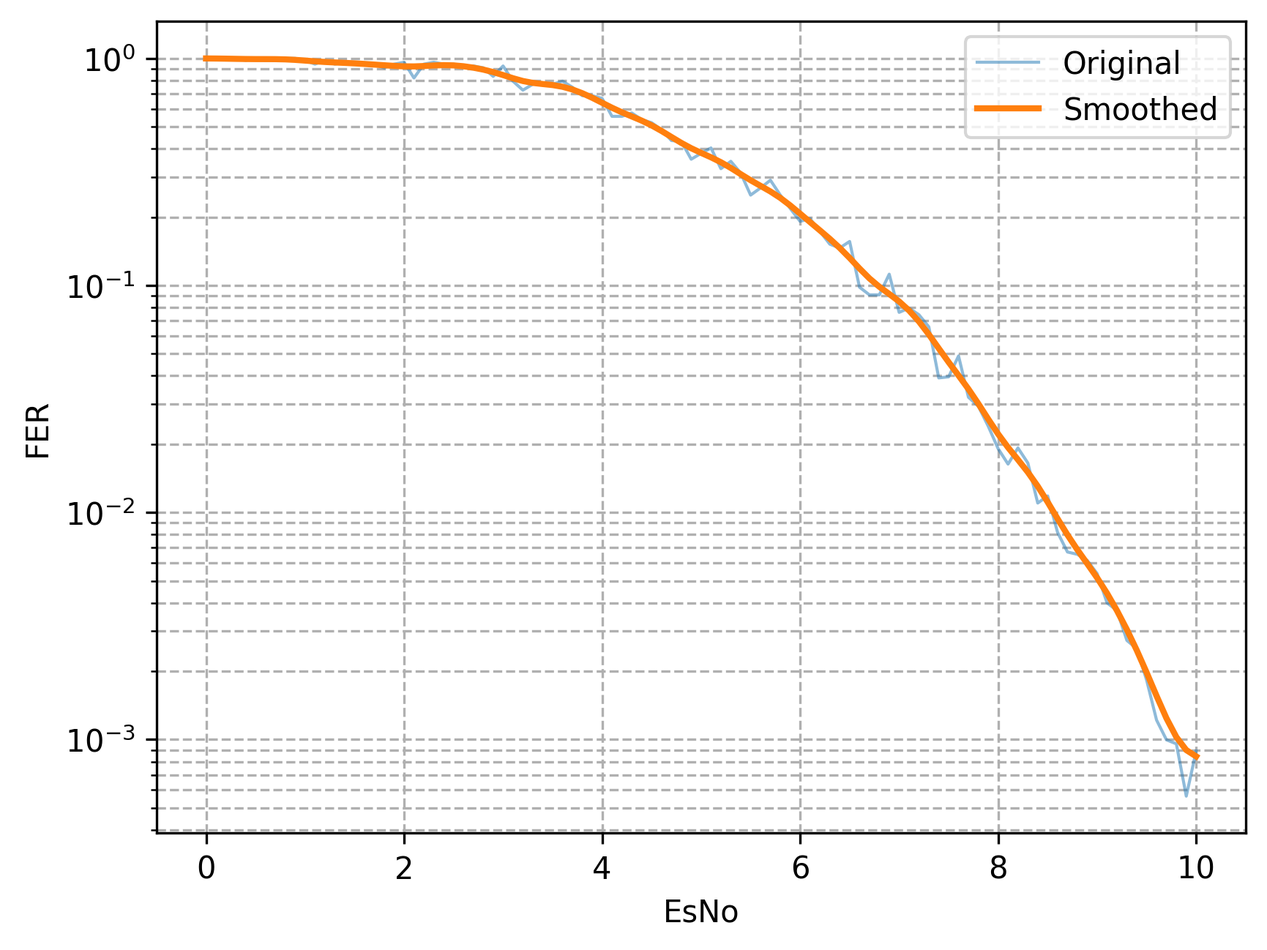
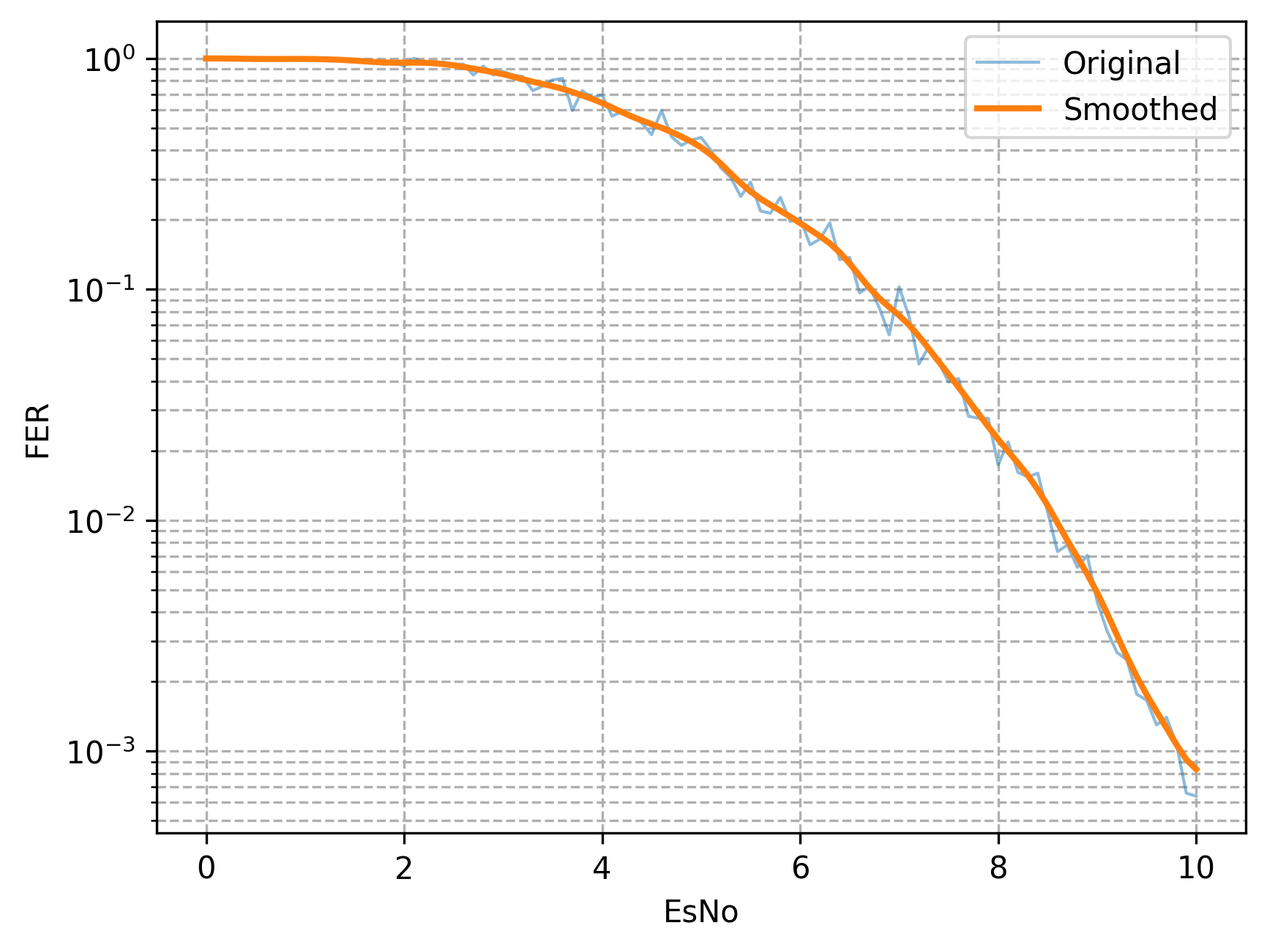
new plots

diff --git a/plot_hardcode.py b/plot_hardcode.py
@@ -5,7 +5,13 @@ from matplotlib import pyplot as plt
 esno_ldpc_32_28 = [0, 0.1, 0.2, 0.3, 0.4, 0.5, 0.6, 0.7, 0.8, 0.9, 1.0, 1.1, 1.2, 1.3, 1.4, 1.5, 1.6, 1.7, 1.8, 1.9, 2.0, 2.1, 2.2, 2.3, 2.4, 2.5, 2.6, 2.7, 2.8, 2.9, 3.0, 3.1, 3.2, 3.3, 3.4, 3.5, 3.6, 3.7, 3.8, 3.9, 4.0, 4.1, 4.2, 4.3, 4.4, 4.5, 4.6, 4.7, 4.8, 4.9, 5.0, 5.1, 5.2, 5.3, 5.4, 5.5, 5.6, 5.7, 5.8, 5.9, 6.0, 6.1, 6.2, 6.3, 6.4, 6.5, 6.6, 6.7, 6.8, 6.9, 7.0, 7.1, 7.2, 7.3, 7.4, 7.5, 7.6, 7.7, 7.8, 7.9, 8.0, 8.1, 8.2, 8.3, 8.4, 8.5, 8.6, 8.7, 8.8, 8.9, 9.0, 9.1, 9.2, 9.3, 9.4, 9.5, 9.6, 9.7, 9.8, 9.9, ] # 10.0
 fer_ldpc_32_28 = [1.0, 1.0, 1.0, 1.0, 0.9803921568627451, 1.0, 0.9803921568627451, 1.0, 1.0, 1.0, 0.9803921568627451, 0.9433962264150944, 0.9803921568627451, 0.9433962264150944, 0.9615384615384616, 0.9615384615384616, 0.9433962264150944, 0.9433962264150944, 0.9090909090909091, 0.9433962264150944, 0.9615384615384616, 0.819672131147541, 0.9433962264150944, 0.9615384615384616, 0.9433962264150944, 0.9433962264150944, 0.9259259259259259, 0.9259259259259259, 0.9090909090909091, 0.8333333333333334, 0.9259259259259259, 0.7936507936507936, 0.7246376811594203, 0.7692307692307693, 0.78125, 0.7692307692307693, 0.7936507936507936, 0.746268656716418, 0.684931506849315, 0.684931506849315, 0.6666666666666666, 0.5555555555555556, 0.5555555555555556, 0.5747126436781609, 0.5376344086021505, 0.5208333333333334, 0.4854368932038835, 0.43478260869565216, 0.43103448275862066, 0.3597122302158273, 0.3816793893129771, 0.4032258064516129, 0.32679738562091504, 0.352112676056338, 0.3125, 0.25, 0.26881720430107525, 0.29069767441860467, 0.25, 0.2183406113537118, 0.19157088122605365, 0.1968503937007874, 0.17301038062283736, 0.1519756838905775, 0.14619883040935672, 0.15625, 0.09823182711198428, 0.09090909090909091, 0.09090909090909091, 0.11210762331838565, 0.076103500761035, 0.0794912559618442, 0.07429420505200594, 0.0657030223390276, 0.03915426781519186, 0.0395882818685669, 0.04892367906066536, 0.03219575016097875, 0.029394473838918283, 0.02399232245681382, 0.019105846388995033, 0.016339869281045753, 0.01924557351809084, 0.016523463317911435, 0.01100594320933304, 0.011834319526627219, 0.008180628272251309, 0.006700616456714018, 0.006544502617801047, 0.006150818058801821, 0.0053803938448294415, 0.004, 0.0037017842600133265, 0.002734631371691096, 0.0025135732957973053, 0.0018253504672897196, 0.0012185908215739318, 0.0009976057462090981, 0.0009575242253629017, 0.000563551728413151, ] # 0.0008907575001781516
 ber_ldpc_32_28 = [0.054375, 0.044375, 0.04875, 0.05375, 0.04718137254901961, 0.043125, 0.05024509803921569, 0.0425, 0.04, 0.05875, 0.04779411764705882, 0.04716981132075472, 0.034926470588235295, 0.03773584905660377, 0.046274038461538464, 0.045072115384615384, 0.039504716981132074, 0.04540094339622641, 0.042045454545454546, 0.041273584905660375, 0.05228365384615385, 0.04456967213114754, 0.03714622641509434, 0.043870192307692304, 0.04540094339622641, 0.03891509433962264, 0.059027777777777776, 0.045717592592592594, 0.05568181818181818, 0.04739583333333333, 0.04224537037037037, 0.047619047619047616, 0.04483695652173913, 0.03365384615384615, 0.04931640625, 0.0375, 0.04662698412698413, 0.037779850746268655, 0.04280821917808219, 0.03595890410958904, 0.03916666666666667, 0.03229166666666667, 0.03125, 0.031609195402298854, 0.03528225806451613, 0.02734375, 0.02821601941747573, 0.028532608695652172, 0.02478448275862069, 0.022482014388489208, 0.024093511450381678, 0.028981854838709676, 0.018995098039215685, 0.02222711267605634, 0.019921875, 0.01625, 0.021001344086021504, 0.018168604651162792, 0.0175, 0.012827510917030568, 0.011015325670498084, 0.012549212598425197, 0.01189446366782007, 0.008548632218844984, 0.00941154970760234, 0.011328125, 0.006507858546168959, 0.005965909090909091, 0.0057954545454545455, 0.0075672645739910315, 0.004613774733637747, 0.005216613672496025, 0.004457652303120356, 0.004311760840998686, 0.0023981989036805013, 0.0025237529691211403, 0.0029048434442270057, 0.0019518673535093367, 0.0018738977072310405, 0.0015894913627639156, 0.001253821169277799, 0.0010518790849673202, 0.0011306774441878368, 0.0010017349636483807, 0.0006741140215716487, 0.0007544378698224853, 0.0004908376963350785, 0.00042297641383007235, 0.0003967604712041885, 0.00038058186738836264, 0.0003329118691488217, 0.0002325, 0.0002244206707633079, 0.00016407788230146577, 0.00016024029760707822, 0.00011636609228971963, 7.387706855791962e-05, 6.172685554668795e-05, 5.9845264085181356e-05, 3.416532353504728e-05, ] # 5.177527969785506e-05
-plt.plot(esno_ldpc_32_28, fer_ldpc_32_28, label="LDPC(32,28)", alpha=1, linewidth=2)
+plt.plot(esno_ldpc_32_28, fer_ldpc_32_28, label="LDPC(32,28)_1_sp", alpha=1, linewidth=2)
+# plt.plot(esno_ldpc_32_28, gaussian_filter1d(fer_ldpc_32_28, sigma=1).tolist(), label="LDPC(32,28)", alpha=1, linewidth=2)
+
+esno_ldpc_32_28 = [0, 0.1, 0.2, 0.3, 0.4, 0.5, 0.6, 0.7, 0.8, 0.9, 1.0, 1.1, 1.2, 1.3, 1.4, 1.5, 1.6, 1.7, 1.8, 1.9, 2.0, 2.1, 2.2, 2.3, 2.4, 2.5, 2.6, 2.7, 2.8, 2.9, 3.0, 3.1, 3.2, 3.3, 3.4, 3.5, 3.6, 3.7, 3.8, 3.9, 4.0, 4.1, 4.2, 4.3, 4.4, 4.5, 4.6, 4.7, 4.8, 4.9, 5.0, 5.1, 5.2, 5.3, 5.4, 5.5, 5.6, 5.7, 5.8, 5.9, 6.0, 6.1, 6.2, 6.3, 6.4, 6.5, 6.6, 6.7, 6.8, 6.9, 7.0, 7.1, 7.2, 7.3, 7.4, 7.5, 7.6, 7.7, 7.8, 7.9, 8.0, 8.1, 8.2, 8.3, 8.4, 8.5, 8.6, 8.7, 8.8, 8.9, 9.0, 9.1, 9.2, 9.3, 9.4, 9.5, 9.6, 9.7, 9.8, 9.9, 10.0] # 
+fer_ldpc_32_28 = [1.0, 1.0, 1.0, 1.0, 1.0, 0.9803921568627451, 1.0, 1.0, 0.9803921568627451, 1.0, 1.0, 1.0, 0.9803921568627451, 1.0, 0.9803921568627451, 0.9803921568627451, 0.9803921568627451, 0.9615384615384616, 0.9433962264150944, 0.9615384615384616, 0.9259259259259259, 1.0, 0.9615384615384616, 0.9433962264150944, 0.9615384615384616, 0.9433962264150944, 0.9433962264150944, 0.847457627118644, 0.9259259259259259, 0.847457627118644, 0.8771929824561403, 0.847457627118644, 0.8333333333333334, 0.7246376811594203, 0.7575757575757576, 0.8064516129032258, 0.819672131147541, 0.5952380952380952, 0.7246376811594203, 0.6756756756756757, 0.6944444444444444, 0.5617977528089888, 0.5882352941176471, 0.5617977528089888, 0.5263157894736842, 0.4672897196261682, 0.5952380952380952, 0.45871559633027525, 0.42016806722689076, 0.4424778761061947, 0.45454545454545453, 0.4, 0.33557046979865773, 0.3048780487804878, 0.25252525252525254, 0.29069767441860467, 0.2183406113537118, 0.21367521367521367, 0.25, 0.1968503937007874, 0.2032520325203252, 0.1557632398753894, 0.16501650165016502, 0.1937984496124031, 0.13440860215053763, 0.13736263736263737, 0.09652509652509653, 0.1026694045174538, 0.08305647840531562, 0.06353240152477764, 0.10245901639344263, 0.07621951219512195, 0.04752851711026616, 0.05636978579481398, 0.04816955684007707, 0.0397456279809221, 0.041084634346754315, 0.028216704288939052, 0.027639579878385848, 0.027609055770292656, 0.017361111111111112, 0.02182453077258839, 0.016113438607798906, 0.015408320493066256, 0.01597954618088846, 0.010850694444444444, 0.007313149041977476, 0.00781616382679381, 0.006243756243756244, 0.007049203440011279, 0.004436950927322744, 0.0033143311679703037, 0.0026733679088916215, 0.0024839783397088777, 0.0017644152727786012, 0.0016607433487228884, 0.0012994100678292056, 0.001400089605734767, 0.0010798669603904799, 0.0006573843989534441, 0.0006381376590558115]
+ber_ldpc_32_28 = [0.05, 0.061875, 0.045, 0.0475, 0.0425, 0.0625, 0.044375, 0.04875, 0.05024509803921569, 0.03875, 0.039375, 0.045, 0.05392156862745098, 0.04375, 0.04044117647058824, 0.051470588235294115, 0.03982843137254902, 0.043870192307692304, 0.044221698113207544, 0.040865384615384616, 0.04456018518518518, 0.050625, 0.046875, 0.036556603773584904, 0.043870192307692304, 0.05011792452830189, 0.04658018867924528, 0.034957627118644065, 0.050347222222222224, 0.04184322033898305, 0.04276315789473684, 0.04449152542372881, 0.0421875, 0.030797101449275364, 0.046875, 0.04536290322580645, 0.04252049180327869, 0.03608630952380952, 0.034420289855072464, 0.03969594594594594, 0.044270833333333336, 0.03195224719101124, 0.03272058823529412, 0.03195224719101124, 0.031578947368421054, 0.02394859813084112, 0.03311011904761905, 0.027522935779816515, 0.02100840336134454, 0.02627212389380531, 0.02784090909090909, 0.02175, 0.02139261744966443, 0.018864329268292682, 0.016256313131313132, 0.018531976744186048, 0.015010917030567686, 0.013488247863247864, 0.01625, 0.01218011811023622, 0.013338414634146341, 0.010319314641744548, 0.010829207920792078, 0.012233527131782945, 0.009072580645161291, 0.00987293956043956, 0.0059121621621621625, 0.006416837782340862, 0.005191029900332226, 0.0042487293519695045, 0.006339651639344262, 0.005525914634146341, 0.0029408269961977186, 0.0035583427282976326, 0.0031310211946050095, 0.0026828298887122417, 0.002644823336072309, 0.001904627539503386, 0.0018138474295190713, 0.001708310325786858, 0.0010633680555555555, 0.0014458751636839808, 0.0009970190138575573, 0.0009533898305084746, 0.0009887344199424736, 0.0006781684027777778, 0.00043878894251864854, 0.0004689698296076286, 0.00039023476523476525, 0.000444980967150712, 0.0002662170556393646, 0.00019885987007821823, 0.00016875634924878362, 0.00016145859208107705, 0.00011027595454866258, 9.96446009233733e-05, 8.04009979469321e-05, 8.663054435483871e-05, 6.749168502440499e-05, 4.026479443589845e-05, 3.988360369098822e-05]
+# plt.plot(esno_ldpc_32_28, fer_ldpc_32_28, label="LDPC(32,28)_2", alpha=1, linewidth=2)
 # plt.plot(esno_ldpc_32_28, gaussian_filter1d(fer_ldpc_32_28, sigma=1).tolist(), label="LDPC(32,28)", alpha=1, linewidth=2)
 
 esno_gldpc_matrix_by_sp = [2, 2.2, 2.4, 2.6, 2.8, 3.0, 3.2, 3.4, 3.6, 3.8, 4.0, 4.2, 4.4, 4.6, 4.8, 5.0, 5.2, 5.4, 5.6, 5.8, 6.0, 6.2, 6.4, 6.6, 6.8, 7.0, 7.2, 7.4, 7.6, 7.8, 8.0]
@@ -17,14 +23,28 @@ ber_gldpc_matrix_by_sp = [0.011081560283687944, 0.013169642857142857, 0.01254251
 esno_gldpc_32_28_cc_Ham16_11 = [2, 2.2, 2.4, 2.6, 2.8, 3.0, 3.2, 3.4, 3.6, 3.8, 4.0, 4.2, 4.4, 4.6, 4.8, 5.0, 5.2, 5.4, 5.6, 5.8, 6.0, 6.2, 6.4, 6.6, 6.8, 7.0, 7.2, 7.4, 7.6, 7.8, 8.0]
 fer_gldpc_32_28_cc_Ham16_11 = [0.6578947368421053, 0.6944444444444444, 0.78125, 0.5555555555555556, 0.6024096385542169, 0.5952380952380952, 0.5319148936170213, 0.44642857142857145, 0.390625, 0.43478260869565216, 0.42016806722689076, 0.3937007874015748, 0.36496350364963503, 0.36496350364963503, 0.23148148148148148, 0.2, 0.22727272727272727, 0.12562814070351758, 0.13736263736263737, 0.12376237623762376, 0.13297872340425532, 0.07429420505200594, 0.052576235541535225, 0.06313131313131314, 0.0395882818685669, 0.03259452411994785, 0.02675227394328518, 0.02147766323024055, 0.018839487565938208, 0.013412017167381975, 0.0070028011204481795]
 ber_gldpc_32_28_cc_Ham16_11 = [0.0884046052631579, 0.09505208333333333, 0.1171875, 0.07256944444444445, 0.0677710843373494, 0.07961309523809523, 0.07712765957446809, 0.05552455357142857, 0.049072265625, 0.05326086956521739, 0.048581932773109245, 0.05093503937007874, 0.04698905109489051, 0.045848540145985404, 0.028645833333333332, 0.022, 0.02784090909090909, 0.014761306532663316, 0.015625, 0.014619430693069308, 0.014876994680851064, 0.007661589895988113, 0.005224763406940063, 0.006352588383838384, 0.004280482977038797, 0.0031779661016949155, 0.002959470304975923, 0.0022014604810996563, 0.0021547663903541824, 0.0016597371244635192, 0.0007265406162464986]
-# plt.plot(esno_gldpc_32_28_cc_Ham16_11, fer_gldpc_32_28_cc_Ham16_11, label="gldpc_32_28_cc_Ham16_11", alpha=1, linewidth=2)
+plt.plot(esno_gldpc_32_28_cc_Ham16_11, fer_gldpc_32_28_cc_Ham16_11, label="gldpc_32_28_cc_Ham16_11", alpha=1, linewidth=2)
 # plt.plot(esno_gldpc_32_28_cc_Ham16_11, gaussian_filter1d(fer_gldpc_32_28_cc_Ham16_11, sigma=1).tolist(), label="LDPC(32,28)", alpha=1, linewidth=2)
 
 esno_gldpc_32_28_cc_Ham16_11_v2 = [0, 0.1, 0.2, 0.3, 0.4, 0.5, 0.6, 0.7, 0.8, 0.9, 1.0, 1.1, 1.2, 1.3, 1.4, 1.5, 1.6, 1.7, 1.8, 1.9, 2.0, 2.1, 2.2, 2.3, 2.4, 2.5, 2.6, 2.7, 2.8, 2.9, 3.0, 3.1, 3.2, 3.3, 3.4, 3.5, 3.6, 3.7, 3.8, 3.9, 4.0, 4.1, 4.2, 4.3, 4.4, 4.5, 4.6, 4.7, 4.8, 4.9, 5.0, 5.1, 5.2, 5.3, 5.4, 5.5, 5.6, 5.7, 5.8, 5.9, 6.0, 6.1, 6.2, 6.3, 6.4, 6.5, 6.6, 6.7, 6.8, 6.9, 7.0, 7.1, 7.2, 7.3, 7.4, 7.5, 7.6, 7.7, 7.8, 7.9, 8.0, 8.1, 8.2, 8.3, 8.4, 8.5, 8.6, 8.7, 8.8, 8.9, 9.0, 9.1, 9.2, 9.3, 9.4, 9.5, 9.6, 9.7, 9.8, 9.9, 10.0]
 fer_gldpc_32_28_cc_Ham16_11_v2 = [0.9090909090909091, 0.9259259259259259, 0.9615384615384616, 0.9259259259259259, 0.8928571428571429, 0.9433962264150944, 0.8771929824561403, 0.9259259259259259, 0.8771929824561403, 0.8928571428571429, 0.9259259259259259, 0.78125, 0.819672131147541, 0.7936507936507936, 0.8620689655172413, 0.6410256410256411, 0.8333333333333334, 0.6756756756756757, 0.704225352112676, 0.7936507936507936, 0.7142857142857143, 0.684931506849315, 0.78125, 0.7142857142857143, 0.5813953488372093, 0.6578947368421053, 0.5882352941176471, 0.6410256410256411, 0.5813953488372093, 0.5681818181818182, 0.49504950495049505, 0.5102040816326531, 0.45045045045045046, 0.4807692307692308, 0.43478260869565216, 0.6172839506172839, 0.43859649122807015, 0.3968253968253968, 0.4032258064516129, 0.3401360544217687, 0.3105590062111801, 0.352112676056338, 0.29069767441860467, 0.352112676056338, 0.24875621890547264, 0.22624434389140272, 0.25773195876288657, 0.25125628140703515, 0.20080321285140562, 0.22935779816513763, 0.2702702702702703, 0.18726591760299627, 0.17921146953405018, 0.11764705882352941, 0.12886597938144329, 0.09615384615384616, 0.09505703422053231, 0.078125, 0.08130081300813008, 0.0748502994011976, 0.09900990099009901, 0.08077544426494346, 0.07451564828614009, 0.0702247191011236, 0.07342143906020558, 0.049800796812749, 0.05005005005005005, 0.03387533875338753, 0.036337209302325583, 0.030864197530864196, 0.03280839895013123, 0.024838549428713365, 0.028604118993135013, 0.021431633090441493, 0.014334862385321102, 0.017674089784376106, 0.014425851125216388, 0.015552099533437015, 0.009288500835965075, 0.006615506747816882, 0.0074827895839568994, 0.007178750897343862, 0.006915629322268326, 0.0050776886361328325, 0.004899559039686428, 0.003439499208915182, 0.003983111606787222, 0.002762278327164245, 0.0018859384429692214, 0.001965872454195172, 0.001438517751309051, 0.001374608236652554, 0.0011133625776570397, 0.0008370722560771445, 0.0006047484851050448, 0.0005154851746463772, 0.0003779889476031721, 0.00041072147334006914, 0.00035631823494199137, 0.00022323122736993433, 0.00017012010479398456]
 ber_gldpc_32_28_cc_Ham16_11_v2 = [0.09375, 0.0798611111111111, 0.0673076923076923, 0.05787037037037037, 0.07087053571428571, 0.06308962264150944, 0.08607456140350878, 0.07465277777777778, 0.06414473684210527, 0.05970982142857143, 0.08275462962962964, 0.064453125, 0.06147540983606557, 0.05555555555555555, 0.06303879310344827, 0.06009615384615385, 0.06979166666666667, 0.05320945945945946, 0.05501760563380282, 0.06101190476190476, 0.054464285714285715, 0.06720890410958905, 0.06103515625, 0.04285714285714286, 0.057412790697674417, 0.06949013157894737, 0.054044117647058826, 0.057291666666666664, 0.051962209302325583, 0.052201704545454544, 0.04733910891089109, 0.045599489795918366, 0.05152027027027027, 0.04326923076923077, 0.04782608695652174, 0.05941358024691358, 0.03892543859649123, 0.03521825396825397, 0.03881048387096774, 0.03741496598639456, 0.0343555900621118, 0.034991197183098594, 0.02525436046511628, 0.029049295774647887, 0.026274875621890546, 0.02531108597285068, 0.02851159793814433, 0.025282663316582913, 0.021460843373493976, 0.02236238532110092, 0.03125, 0.01977996254681648, 0.01881720430107527, 0.011764705882352941, 0.01401417525773196, 0.010516826923076924, 0.009565114068441065, 0.008935546875, 0.008079268292682927, 0.008514221556886227, 0.010581683168316832, 0.008531906300484653, 0.008988450074515649, 0.00741748595505618, 0.007755139500734215, 0.005011205179282868, 0.005286536536536536, 0.003662771002710027, 0.004269622093023256, 0.0033179012345679014, 0.0032193241469816274, 0.002856433184302037, 0.003092820366132723, 0.00237087441063009, 0.0014782826834862386, 0.001690084835630965, 0.00148766589728794, 0.0013705287713841369, 0.000981097900798811, 0.0007731873511510982, 0.0006547440885962286, 0.0006864680545585068, 0.0007002074688796681, 0.0005363308621915304, 0.0004991425771680548, 0.0003052555547912224, 0.0004978889508484028, 0.0002555107452626927, 0.00018977255582377793, 0.00021993198081308484, 0.0001483471431037459, 0.00014003821410897894, 0.00011759892226502483, 8.056820464742516e-05, 6.463249434560166e-05, 4.96154480597138e-05, 3.9216353313829106e-05, 4.184225009651955e-05, 3.29594367321342e-05, 2.2323122736993433e-05, 1.7543635806879657e-05]
-plt.plot(esno_gldpc_32_28_cc_Ham16_11_v2, fer_gldpc_32_28_cc_Ham16_11_v2, label="GLDPC_32_28_from_Ham16_11", alpha=1, linewidth=2)
+plt.plot(esno_gldpc_32_28_cc_Ham16_11_v2, fer_gldpc_32_28_cc_Ham16_11_v2, label="GLDPC_32_28_from_Ham16_11_v2", alpha=1, linewidth=2)
 # plt.plot(esno_gldpc_32_28_cc_Ham16_11_v2, gaussian_filter1d(fer_gldpc_32_28_cc_Ham16_11_v2, sigma=1).tolist(), label="GLDPC_32_28_from_Ham16_11", alpha=1, linewidth=2)
+
+#----H_ldpc_1---------codeword_initial = np.array([0, 1, 1, 0, 1, 0, 0, 1, 0, 0, 0, 0, 0, 0, 0, 0, 1, 1, 1, 1, 1, 1, 1, 1, 1, 1, 1, 1, 1, 1, 1, 1])
+esno_gldpc_32_28_cc_Ham16_11_v3 = [0, 0.1, 0.2, 0.3, 0.4, 0.5, 0.6, 0.7, 0.8, 0.9, 1.0, 1.1, 1.2, 1.3, 1.4, 1.5, 1.6, 1.7, 1.8, 1.9, 2.0, 2.1, 2.2, 2.3, 2.4, 2.5, 2.6, 2.7, 2.8, 2.9, 3.0, 3.1, 3.2, 3.3, 3.4, 3.5, 3.6, 3.7, 3.8, 3.9, 4.0, 4.1, 4.2, 4.3, 4.4, 4.5, 4.6, 4.7, 4.8, 4.9, 5.0, 5.1, 5.2, 5.3, 5.4, 5.5, 5.6, 5.7, 5.8, 5.9, 6.0, 6.1, 6.2, 6.3, 6.4, 6.5, 6.6, 6.7, 6.8, 6.9, 7.0, 7.1, 7.2, 7.3, 7.4, 7.5, 7.6, 7.7, 7.8, 7.9, 8.0, 8.1, 8.2, 8.3, 8.4, 8.5, 8.6, 8.7, 8.8, 8.9, 9.0, 9.1, 9.2, 9.3, 9.4, 9.5, 9.6, 9.7, 9.8, 9.9, 10.0]
+fer_gldpc_32_28_cc_Ham16_11_v3 = [0.9259259259259259, 0.9615384615384616, 0.8771929824561403, 0.9259259259259259, 0.9090909090909091, 0.8928571428571429, 0.8620689655172413, 0.9433962264150944, 0.819672131147541, 0.9259259259259259, 0.8064516129032258, 0.8064516129032258, 0.847457627118644, 0.8064516129032258, 0.8620689655172413, 0.7692307692307693, 0.819672131147541, 0.7575757575757576, 0.7692307692307693, 0.78125, 0.6944444444444444, 0.7575757575757576, 0.684931506849315, 0.6410256410256411, 0.5813953488372093, 0.6578947368421053, 0.7142857142857143, 0.746268656716418, 0.6578947368421053, 0.6097560975609756, 0.6172839506172839, 0.6097560975609756, 0.6172839506172839, 0.4166666666666667, 0.4807692307692308, 0.46296296296296297, 0.5154639175257731, 0.44642857142857145, 0.5154639175257731, 0.3937007874015748, 0.34965034965034963, 0.3597122302158273, 0.3105590062111801, 0.373134328358209, 0.3246753246753247, 0.3816793893129771, 0.25510204081632654, 0.30864197530864196, 0.2242152466367713, 0.25510204081632654, 0.1893939393939394, 0.18518518518518517, 0.21367521367521367, 0.13966480446927373, 0.17482517482517482, 0.16778523489932887, 0.15151515151515152, 0.1179245283018868, 0.1282051282051282, 0.09727626459143969, 0.10121457489878542, 0.07352941176470588, 0.07874015748031496, 0.10893246187363835, 0.06150061500615006, 0.06925207756232687, 0.055248618784530384, 0.04032258064516129, 0.05055611729019211, 0.03816793893129771, 0.031545741324921134, 0.040749796251018745, 0.0248015873015873, 0.023073373327180433, 0.016490765171503958, 0.018754688672168042, 0.01661681621801263, 0.013743815283122594, 0.009216589861751152, 0.009982032341784788, 0.007460459564309161, 0.009394964299135663, 0.006510416666666667, 0.0058370301190754145, 0.005292125317527519, 0.0037252272388615705, 0.0036342491641226924, 0.0033090668431502318, 0.0021987686895338612, 0.002007387184840212, 0.0024153422539973913, 0.002040233402701269, 0.0011928334565927906, 0.0008859279209043553, 0.0008790899660671273, 0.0007760962359332557, 0.0007139695277805543, 0.00043736878936319107, 0.0003560112499554986, 0.0003191401088906052, 0.0002081806675104923]
+ber_gldpc_32_28_cc_Ham16_11_v3 = [0.17881944444444445, 0.21213942307692307, 0.19298245614035087, 0.18344907407407407, 0.1806818181818182, 0.19419642857142858, 0.15140086206896552, 0.20813679245283018, 0.15881147540983606, 0.19039351851851852, 0.14969758064516128, 0.15826612903225806, 0.149364406779661, 0.1350806451612903, 0.15732758620689655, 0.13701923076923078, 0.1413934426229508, 0.11931818181818182, 0.13990384615384616, 0.1328125, 0.1072048611111111, 0.12452651515151515, 0.11215753424657535, 0.10857371794871795, 0.08103197674418605, 0.09251644736842106, 0.11160714285714286, 0.10587686567164178, 0.10731907894736842, 0.08879573170731707, 0.08719135802469136, 0.0819359756097561, 0.09452160493827161, 0.05963541666666667, 0.07421875, 0.06510416666666667, 0.08118556701030928, 0.05915178571428571, 0.061855670103092786, 0.054133858267716536, 0.0465472027972028, 0.05755395683453238, 0.03940217391304348, 0.053404850746268655, 0.040381493506493504, 0.05271946564885496, 0.02646683673469388, 0.03896604938271605, 0.03181053811659193, 0.04193239795918367, 0.021425189393939392, 0.020717592592592593, 0.029513888888888888, 0.018592877094972066, 0.019777097902097904, 0.020448825503355705, 0.019223484848484847, 0.013266509433962265, 0.016506410256410257, 0.01270671206225681, 0.014106781376518218, 0.00942095588235294, 0.009694881889763779, 0.01184640522875817, 0.00730319803198032, 0.009825138504155125, 0.007009668508287293, 0.004259072580645161, 0.005592770475227503, 0.003816793893129771, 0.003529179810725552, 0.004737163814180929, 0.0033172123015873015, 0.0024659667743424088, 0.0018345976253298154, 0.002227119279819955, 0.0016824526420737786, 0.0012369433754810335, 0.0009158986175115207, 0.0010980235575963266, 0.0006900925096985975, 0.0009394964299135663, 0.0005900065104166666, 0.0008098879290217137, 0.0005292125317527519, 0.00045634033676054237, 0.0005360517517080971, 0.00030608868299139644, 0.00025148416886543537, 0.00023837722819977517, 0.0002339862808559973, 0.00021039906965356837, 0.00013195720113557744, 0.00011904656437152274, 9.065615275067251e-05, 7.469926270857587e-05, 7.273564564264398e-05, 5.1937543736878935e-05, 3.471109687066111e-05, 3.909466333909913e-05, 2.2769760508960096e-05]
+plt.plot(esno_gldpc_32_28_cc_Ham16_11_v3, fer_gldpc_32_28_cc_Ham16_11_v3, label="GLDPC_32_28_from_Ham16_11_v3", alpha=1, linewidth=2)
+# plt.plot(esno_gldpc_32_28_cc_Ham16_11_v3, gaussian_filter1d(fer_gldpc_32_28_cc_Ham16_11_v3, sigma=1).tolist(), label="GLDPC_32_28_from_Ham16_11v3", alpha=1, linewidth=2)
+
+#----H_ldpc_4--------- codeword_initial = np.array([0, 1, 1, 0, 1, 0, 0, 1, 0, 0, 0, 0, 0, 0, 0, 0, 1, 1, 1, 1, 1, 1, 1, 1, 1, 1, 1, 1, 1, 1, 1, 1])
+esno_gldpc_32_28_cc_Ham16_11_v4 = [0, 0.1, 0.2, 0.3, 0.4, 0.5, 0.6, 0.7, 0.8, 0.9, 1.0, 1.1, 1.2, 1.3, 1.4, 1.5, 1.6, 1.7, 1.8, 1.9, 2.0, 2.1, 2.2, 2.3, 2.4, 2.5, 2.6, 2.7, 2.8, 2.9, 3.0, 3.1, 3.2, 3.3, 3.4, 3.5, 3.6, 3.7, 3.8, 3.9, 4.0, 4.1, 4.2, 4.3, 4.4, 4.5, 4.6, 4.7, 4.8, 4.9, 5.0, 5.1, 5.2, 5.3, 5.4, 5.5, 5.6, 5.7, 5.8, 5.9, 6.0, 6.1, 6.2, 6.3, 6.4, 6.5, 6.6, 6.7, 6.8, 6.9, 7.0, 7.1, 7.2, 7.3, 7.4, 7.5, 7.6, 7.7, 7.8, 7.9, 8.0, 8.1, 8.2, 8.3, 8.4, 8.5, 8.6, 8.7, 8.8, 8.9, 9.0, 9.1, 9.2, 9.3, 9.4, 9.5, 9.6, 9.7 ] #9.8, 9.9, 10.0
+fer_gldpc_32_28_cc_Ham16_11_v4 = [0.8064516129032258, 0.819672131147541, 0.8333333333333334, 0.746268656716418, 0.7936507936507936, 0.6578947368421053, 0.6756756756756757, 0.7352941176470589, 0.6944444444444444, 0.7575757575757576, 0.6756756756756757, 0.5952380952380952, 0.6024096385542169, 0.5882352941176471, 0.5882352941176471, 0.6410256410256411, 0.4807692307692308, 0.6493506493506493, 0.49019607843137253, 0.49504950495049505, 0.4716981132075472, 0.4807692307692308, 0.44642857142857145, 0.4032258064516129, 0.46296296296296297, 0.44642857142857145, 0.32051282051282054, 0.32051282051282054, 0.32051282051282054, 0.30120481927710846, 0.2347417840375587, 0.37593984962406013, 0.29411764705882354, 0.33783783783783783, 0.2127659574468085, 0.2564102564102564, 0.17301038062283736, 0.2127659574468085, 0.17793594306049823, 0.1278772378516624, 0.1457725947521866, 0.14204545454545456, 0.12224938875305623, 0.1347708894878706, 0.12468827930174564, 0.12254901960784313, 0.09276437847866419, 0.06993006993006994, 0.09746588693957114, 0.07062146892655367, 0.062034739454094295, 0.05213764337851929, 0.04042037186742118, 0.04562043795620438, 0.04205214465937763, 0.03977724741447892, 0.03399048266485384, 0.038314176245210725, 0.025265285497726123, 0.025510204081632654, 0.019692792437967704, 0.02321262766945218, 0.02768549280177187, 0.012357884330202669, 0.013513513513513514, 0.010326311441553077, 0.008195377806916898, 0.008544087491455913, 0.008963786303334529, 0.00787897888433659, 0.006833401667350007, 0.005751754285056942, 0.004283022100394038, 0.004020585397233837, 0.005390835579514825, 0.0030669201987364287, 0.0023440063756973418, 0.0018090379536162668, 0.002068166776968895, 0.0016463615409944023, 0.0021778900601097657, 0.001358621814031846, 0.0009824147755182239, 0.001088992464172148, 0.0006583538520283882, 0.0007703804138483583, 0.0007239661763002432, 0.000686162840165228, 0.0003759172380608685, 0.0004762403680385564, 0.0002504119276209364, 0.00030368368307570837, 0.00019069994507841582, 0.00016130697362308366, 0.0001886529050660851, 0.00012654639697098544, 0.0001176224273034588, 6.810430310228722e-05] #0, 0, 0
+ber_gldpc_32_28_cc_Ham16_11_v4 = [0.1537298387096774, 0.18032786885245902, 0.15364583333333334, 0.15391791044776118, 0.1463293650793651, 0.12294407894736842, 0.11739864864864864, 0.12362132352941177, 0.10807291666666667, 0.1543560606060606, 0.10346283783783784, 0.09635416666666667, 0.09186746987951808, 0.08713235294117647, 0.09338235294117647, 0.08774038461538461, 0.07572115384615384, 0.09050324675324675, 0.07169117647058823, 0.07332920792079207, 0.0695754716981132, 0.06881009615384616, 0.04966517857142857, 0.051915322580645164, 0.05092592592592592, 0.05412946428571429, 0.035056089743589744, 0.03345352564102564, 0.034054487179487176, 0.038403614457831324, 0.023327464788732395, 0.04111842105263158, 0.026838235294117645, 0.041173986486486486, 0.022606382978723406, 0.023557692307692307, 0.01730103806228374, 0.01848404255319149, 0.017571174377224198, 0.010789641943734015, 0.01403061224489796, 0.012251420454545454, 0.00993276283618582, 0.011202830188679245, 0.012468827930174564, 0.009267769607843137, 0.007305194805194805, 0.0053321678321678325, 0.008771929824561403, 0.005517302259887006, 0.004924007444168734, 0.0044316996871741395, 0.0034862570735650768, 0.003478558394160584, 0.0037321278385197645, 0.003057875894988067, 0.002740482664853841, 0.0029932950191570882, 0.0019896412329459324, 0.0017697704081632653, 0.0015015754233950373, 0.0015668523676880223, 0.0018514673311184938, 0.0009268413247652002, 0.0009459459459459459, 0.0006647562990499793, 0.0005480658908375676, 0.0005660457963089542, 0.0005770437432771603, 0.0005022849038764576, 0.00045271286046193795, 0.0003882434142413436, 0.00027839643652561246, 0.0002512865873271148, 0.00038409703504043124, 0.00019934981291786787, 0.000181660494116544, 0.00012437135931111834, 0.00013184563203176705, 0.00010495554823839315, 0.00014156285390713478, 8.661214064453019e-05, 6.385696040868455e-05, 6.806202901075925e-05, 4.197005806680975e-05, 4.911175138283284e-05, 4.52478860187652e-05, 4.288517751032675e-05, 2.3494827378804282e-05, 3.036032346245797e-05, 1.5963760385834697e-05, 1.8980230192231773e-05, 1.1918746567400989e-05, 1.0081685851442729e-05, 1.1790806566630319e-05, 7.90914981068659e-06, 7.351401706466175e-06, 4.34164932277081e-06] #0, 0, 0
+plt.plot(esno_gldpc_32_28_cc_Ham16_11_v3, fer_gldpc_32_28_cc_Ham16_11_v4, label="GLDPC_32_28_from_Ham16_11_v4", alpha=1, linewidth=2)
+# plt.plot(esno_gldpc_32_28_cc_Ham16_11_v3, gaussian_filter1d(fer_gldpc_32_28_cc_Ham16_11_v4, sigma=1).tolist(), label="GLDPC_32_28_from_Ham16_11v4", alpha=1, linewidth=2)
 
 plt.yscale("log")  # Логарифмическая шкала по Y
 plt.xlabel("EsNo [dB]")
@@ -32,4 +52,4 @@ plt.ylabel("FER")
 # plt.title("LDPC(32,28)")
 plt.legend()
 plt.grid(True, which="both", linestyle="--")
-plt.savefig('modeling_results/GLDPC(32,28)_LDPC_real.png', dpi=300, bbox_inches='tight')
+plt.savefig('modeling_results/GLDPC(32,28)_LDPC_real_compare.png', dpi=300, bbox_inches='tight')

diff --git a/test.py b/test.py
@@ -1,4 +1,4 @@
-# import numpy as np
+import numpy as np
 
 # # Проверочная матрица
 # H = np.array([
@@ -22,26 +22,61 @@
 # # print("Проверка, что оно кодовое (H * x % 2 = 0):", check)
 # # codeword=[0, 1, 1, 0, 1, 0, 0, 1, 0, 0, 0, 0, 0, 0, 0, 0, 1, 1, 1, 1, 1, 1, 1, 1, 1, 1, 1, 1, 1, 1, 1, 1]
 
-# codeword=[0, 1, 1, 0, 1, 0, 0, 1, 0, 0, 0, 0, 0, 0, 0, 0, 1, 1, 1, 1, 1, 1, 1, 1, 1, 1, 1, 1, 1, 1, 1, 1]
-
-
+# # codeword=[0, 1, 1, 0, 1, 0, 0, 1, 0, 0, 0, 0, 0, 0, 0, 0, 1, 1, 1, 1, 1, 1, 1, 1, 1, 1, 1, 1, 1, 1, 1, 1]
+#         #  [0, 1, 1, 0, 1, 0, 0, 1, 0, 0, 0, 0, 0, 0, 0, 0, 1, 1, 1, 1, 1, 1, 1, 1, 1, 1, 1, 1, 1, 1, 1, 1]
+#         #  [0, 0, 0, 0, 1, 0, 1, 1, 0, 1, 1, 1, 0, 1, 0, 1, 0, 0, 0, 0, 0, 0, 0, 1, 1, 1, 1, 0, 1, 0, 1, 0]
+#         #  [1, 1, 1, 1, 1, 0, 1, 1, 0, 1, 1, 1, 0, 1, 0, 1, 0, 0, 0, 0, 0, 0, 0, 1, 1, 1, 1, 0, 1, 0, 1, 0]
+# codeword=[1, 1, 1, 1, 1, 0, 1, 1, 0, 1, 1, 1, 0, 1, 0, 1, 0, 0, 0, 0, 0, 0, 0, 1, 1, 1, 1, 0, 1, 0, 1, 0]
 # # codeword=[0, 0, 0, 0, 0, 0, 0, 0, 0, 0, 0, 0, 0, 0, 0, 0, 0, 0, 0, 0, 0, 0, 0, 0, 0, 0, 0, 0, 0, 0, 0, 0]
 
 # if np.sum(np.matmul(codeword, (H.T)) % 2) == 0:
 #     print("Ненулевое кодовое слово:", codeword)
 # else:
 #     print("Кодовое слово хуйня")
+
+
 from BCJR import BCJRDecoder 
 from trellis_repo import get_trellis
-
+from bpsk import bpsk_demodulation
+from utils import read_csv
 trellis1 = get_trellis('/home/i17m5/GLDPC/trellis_binaries/H_ham(16,11)')
 
-llr_in=[ 14.45278123,  16.21054051 ,  8.81886308  , 2.50358483 , 90.50822594,
-  15.78551759  , 9.61576327 ,-10.78005435  , 8.21385364,  10.07751358,
- -14.92368358 ,-10.67865927, -60.92993565 , 10.86770752,  10.95095283,
-   9.97334605]
+# llr_in=[ 14.45278123,  16.21054051 ,  8.81886308  , 2.50358483 , 90.50822594,
+#   15.78551759  , 9.61576327 ,-10.78005435  , 8.21385364,  10.07751358,
+#  -14.92368358 ,-10.67865927, -60.92993565 , 10.86770752,  10.95095283,
+#    9.97334605]
+# llr_in = [  2.50358483, -10.67865927 ,  9.97334605 , 10.86770752 ,  8.81886308,
+#   10.07751358, -10.78005435, -14.92368358 ,  9.61576327 , 10.95095283,
+#   90.50822594  ,16.21054051 ,  8.21385364,  14.45278123  ,15.78551759,
+#  -60.92993565]
+
+llr_in=[ 10.07751358 ,  2.50358483,  90.50822594, -10.67865927, -10.78005435,
+   9.97334605 ,  8.81886308 ,-60.92993565 ,-14.92368358 , 14.45278123,
+  16.21054051 , 10.86770752  , 9.61576327 , 10.95095283  , 8.21385364,
+  15.78551759]
+H_cc = read_csv('/home/i17m5/GLDPC/matricies/H_ham(16,11).csv')
+
+# llr_in = [154.98671912817557, -93.16231194779564, 67.44386492948027, -33.43374850245638, 75.05669730038835, 157.65607371994352, -33.43374850245638, -68.87386122877703, 68.873861228777031, 33.433748502456382, 1028.5131988413159, 75.05669730038835, -33.43374850245638, 67.44386492948027, 93.162311947795644, -559.6838895008139]
 sigma2 =0.15848931924611134
+codeword_candidat = bpsk_demodulation(llr_in)
+
+print('codeword_candidat', codeword_candidat)
+
+if np.sum(np.matmul(codeword_candidat, (H_cc.T)) % 2) == 0:
+    print("Верное кодовое слово передано:", codeword_candidat)
+else:
+    print("В декодер передана хуйня")
+
 
 decoder = BCJRDecoder(trellis1.edg)
+out_llr = decoder.decode(llr_in,sigma2)
 
-print(decoder.decode(llr_in,sigma2))
+codeword_candidat2 = bpsk_demodulation(out_llr)
+if np.sum(np.matmul(codeword_candidat2, (H_cc.T)) % 2) == 0:
+    print("Декодер докидировал верное кодовое слово своего кода:", codeword_candidat)
+else:
+    print("Декодер вернул хуйню")
+
+
+
+

diff --git a/simulate_awgn_once2.py b/simulate_awgn_once2.py
@@ -31,21 +31,21 @@ codeword_modulated = bpsk_modulation(codeword_initial)
 print(f'Кодовое слово BPSK: {codeword_modulated}\n\n')
 
 #------------------------------------Cоздание входных LLR----------------------------------------------------------------
-snr = 1
+snr = 8
 llr_in, sigma2 = awgn_llr(codeword_modulated, snr)
 print(f'SNR: {snr}. sigma2: {sigma2}')
 
 # для запуска с конкретными LLR:
-# llr_in = np.array([10.950952833565214 ,-10.678659273586316, -14.923683579591696,
-#  14.452781232678571, -60.929935648832439 ,15.785517592718364,
-#  9.615763268529186 ,-10.78005435292438,9.973346054136995 ,10.077513584546661,
-#  8.213853639269018 ,16.21054050626045 ,10.867707520852655, 8.818863076771962,
-#  2.5035848316290643 ,90.508225936535146,-11.197007059868271,
-#  -14.92977092850371,-80.062282590486147 ,-13.23020354271099,
-#  -14.531534922392634, -30.7859844582165256 ,-11.178678651524343,
-#  -90.000984281999317,-60.646455387234506 ,-19.75275855549868,
-#  -30.9992385268927255, -10.693459778814443 ,-11.523370784481257,
-#  -90.649947835205834 ,-80.569103370018432 ,-14.942585974981771])
+llr_in = np.array([10.950952833565214 ,-10.678659273586316, -14.923683579591696,
+ 14.452781232678571, -60.929935648832439 ,15.785517592718364,
+ 9.615763268529186 ,-10.78005435292438,9.973346054136995 ,10.077513584546661,
+ 8.213853639269018 ,16.21054050626045 ,10.867707520852655, 8.818863076771962,
+ 2.5035848316290643 ,90.508225936535146,-11.197007059868271,
+ -14.92977092850371,-80.062282590486147 ,-13.23020354271099,
+ -14.531534922392634, -30.7859844582165256 ,-11.178678651524343,
+ -90.000984281999317,-60.646455387234506 ,-19.75275855549868,
+ -30.9992385268927255, -10.693459778814443 ,-11.523370784481257,
+ -90.649947835205834 ,-80.569103370018432 ,-14.942585974981771])
 #------------------------------------------------------------------------------------------------------------------------
 
 # считаем кол-во ошибок на входе
@@ -68,10 +68,10 @@ print(f'Входные LLR: {llr_in}\n\n')
 decoder = GLDPC(
     H_LDPC=h_ldpc,
     H_comp=h_comp,
-    # H_GLDPC=h_gldpc,
+    H_GLDPC=h_gldpc,
     CC_DECODER=code_component_decoder
 )
-decoded_word = decoder.decode(llr_in, sigma2, 20)
+decoded_word = decoder.decode(llr_in, sigma2, 1)
 print("Декодированное слово")
 print(decoded_word)
 print("Изначальное кодовое слово")

diff --git a/simulate_awgn.py b/simulate_awgn.py
@@ -13,7 +13,7 @@ from utils import read_csv
 h_ldpc = read_csv('/home/i17m5/GLDPC/matricies/H_LDPC(32,28).csv')
 h_comp = read_csv('/home/i17m5/GLDPC/matricies/H_ham(16,11).csv')
 
-h_gldpc = read_csv('/home/i17m5/GLDPC/matricies/H_gldpc_4.csv')
+h_gldpc = read_csv('/home/i17m5/GLDPC/matricies/H_gldpc_like_example.csv')
 
 ESNO_START = 0
 ESNO_END = 10
@@ -22,7 +22,7 @@ WRONG_DECODING_NUMBER = 50
 N =h_ldpc.shape[1]
 
 
-TITLE = f'Decoding GLDPC, WRONG_DECODING_NUMBER = {WRONG_DECODING_NUMBER}, ESNO_END = {ESNO_END}'
+TITLE = f'Decoding GLDPC, WRONG_DECODING_NUMBER = {WRONG_DECODING_NUMBER}, ESNO_END = {ESNO_END}_m_example_cw_1'
 print('\n',TITLE,'\n')
 
 # Создаем декодер кода компонента
@@ -35,7 +35,11 @@ code_component_decoder = BCJRDecoder(trellis1.edg)
 
 # Задаем кодовое слово
 # codeword_initial = np.array([0] * N, dtype=int)
-codeword_initial = np.array([0, 1, 1, 0, 1, 0, 0, 1, 0, 0, 0, 0, 0, 0, 0, 0, 1, 1, 1, 1, 1, 1, 1, 1, 1, 1, 1, 1, 1, 1, 1, 1])
+codeword_initial = np.array([0, 1, 1, 0, 1, 0, 0, 1, 0, 0, 0, 0, 0, 0, 0, 0, 1, 1, 1, 1, 1, 1, 1, 1, 1, 1, 1, 1, 1, 1, 1, 1])#1
+
+# Альтернативное кодовое слово
+# codeword_initial = np.array([0, 0, 0, 0, 1, 0, 1, 1, 0, 1, 1, 1, 0, 1, 0, 1, 0, 0, 0, 0, 0, 0, 0, 1, 1, 1, 1, 0, 1, 0, 1, 0])#2
+# codeword_initial=np.array([0, 0, 0, 0, 0, 0, 0, 0, 0, 0, 0, 0, 0, 0, 0, 0, 0, 0, 0, 0, 0, 0, 0, 0, 0, 0, 0, 0, 0, 0, 0, 0])
 
 codeword_modulated = bpsk_modulation(codeword_initial)
 

diff --git a/simulate_awgn_sum_product.py b/simulate_awgn_sum_product.py
@@ -23,7 +23,10 @@ print('\n',TITLE,'\n')
 
 # Задаем кодовое слово
 # codeword_initial = np.array([0] * N, dtype=int)
-codeword_initial = np.array([0, 1, 1, 0, 1, 0, 0, 1, 0, 0, 0, 0, 0, 0, 0, 0, 1, 1, 1, 1, 1, 1, 1, 1, 1, 1, 1, 1, 1, 1, 1, 1])
+# codeword_initial = np.array([0, 1, 1, 0, 1, 0, 0, 1, 0, 0, 0, 0, 0, 0, 0, 0, 1, 1, 1, 1, 1, 1, 1, 1, 1, 1, 1, 1, 1, 1, 1, 1])
+
+
+codeword_initial = np.array([0, 0, 0, 0, 1, 0, 1, 1, 0, 1, 1, 1, 0, 1, 0, 1, 0, 0, 0, 0, 0, 0, 0, 1, 1, 1, 1, 0, 1, 0, 1, 0])
 
 codeword_modulated = bpsk_modulation(codeword_initial)
 
